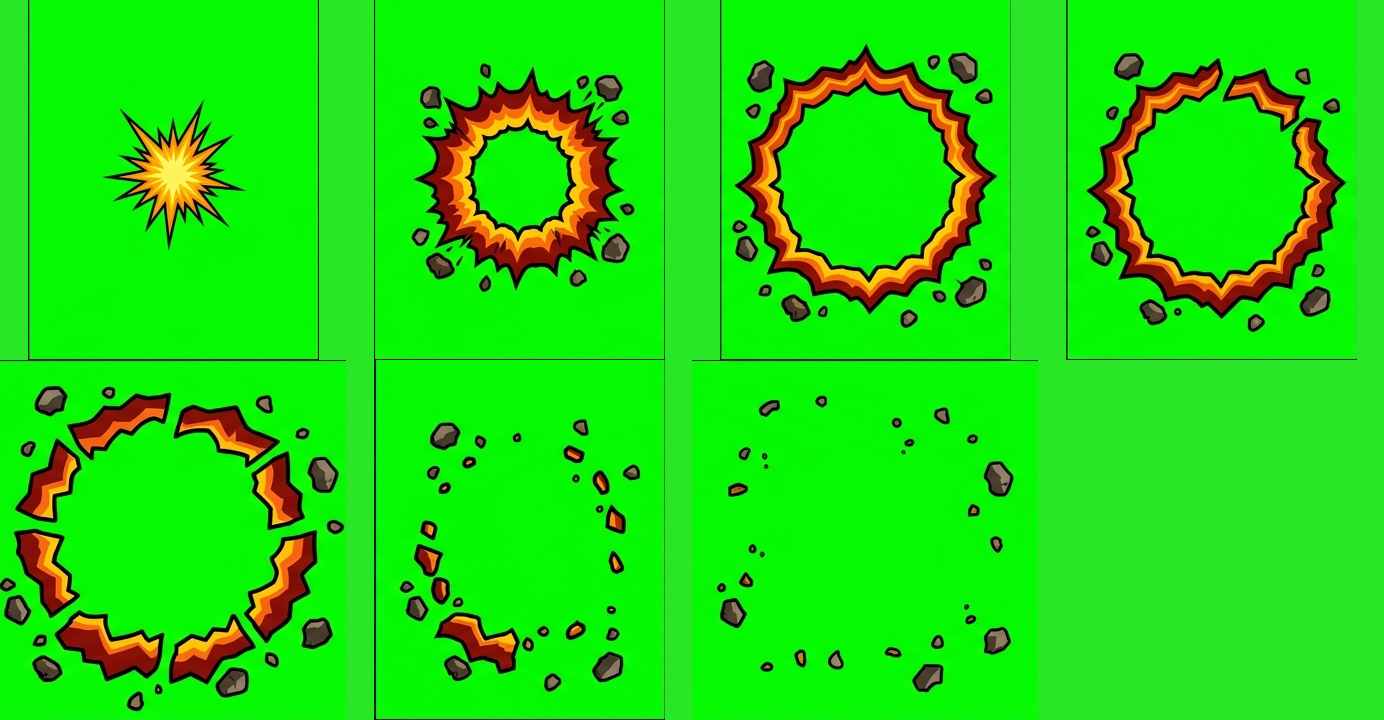
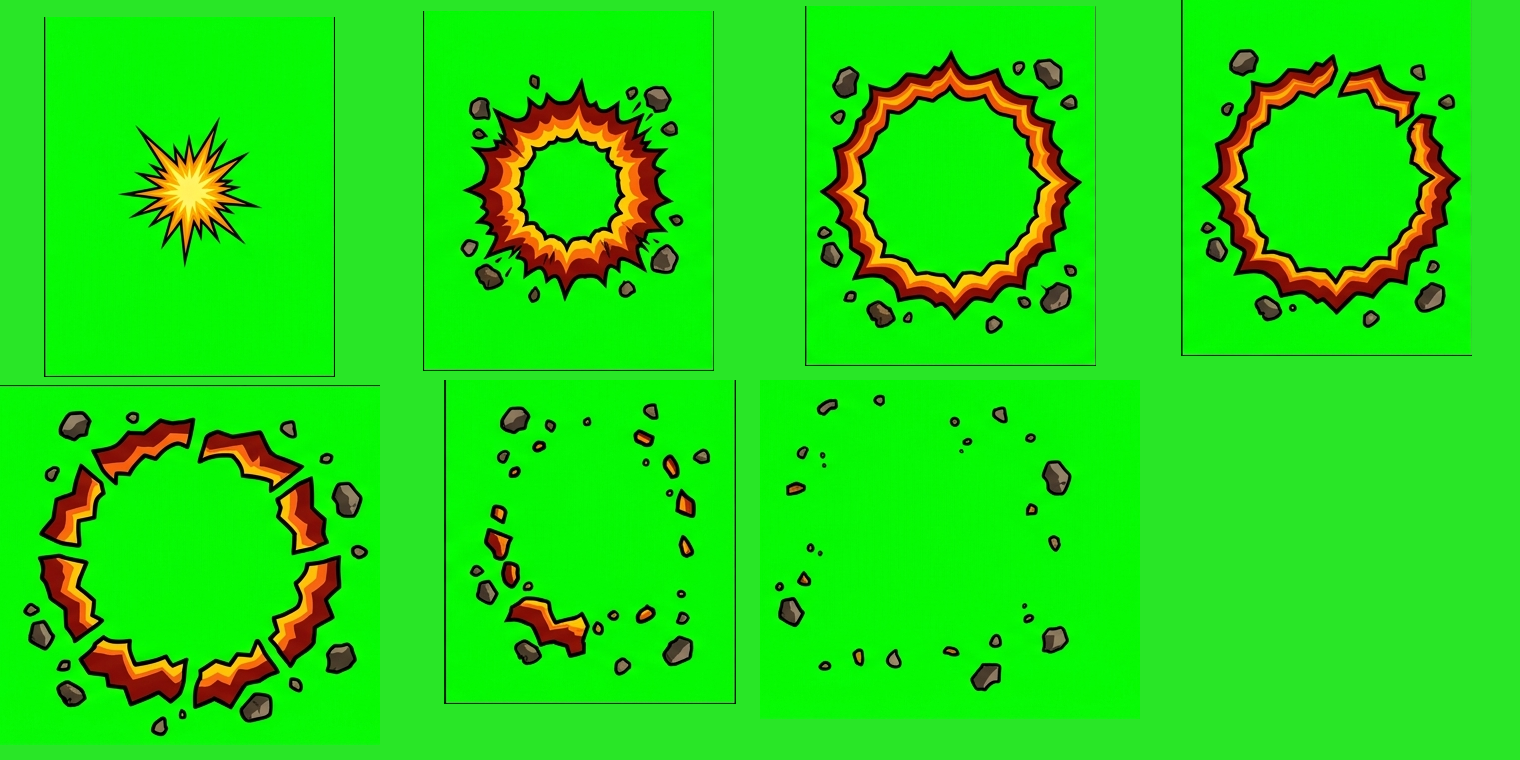
Put every frame of the explosion on the same centre, and say how to see it
The blast wandered as it played, and the cause was what was being taken for the middle of a drawing. Cutting each one on its cell keeps whatever drift the artist drew, and there is plenty: the middles run from y 174 to y 195 down the top row. Cutting on the bounding box is no better where it matters, because the box takes in the rocks thrown clear of the fire and they are not thrown evenly, so on the two frames carrying the most debris it sat eleven pixels one way and ten the other, throwing the picture a fifth of a frame between one frame and the next.

The middle is measured per frame now, by whichever rule that frame can support. Five of them are a ring, and fire is separable from everything else by colour alone: the ramp runs dark red to yellow and is strongly saturated, where the rocks are grey and the outlines are black. So the centroid of the fire is the blast. The last two have no ring left, only embers and falling debris, and there the fire is a handful of pixels nowhere near the middle, so those take the weight of everything drawn instead. Measured afterwards, all seven centres of mass land within a pixel of each other.

regrid-explosion.ps1 is in the tree now, which it was not. That mattered more than it sounds: SOURCES.md said the regridded sheet could be rebuilt from the original when nothing in the repository could rebuild it, and the manifest credited build-sheet.ps1 with centring it does not do.
[…]

diff --git a/docs/render-checks.md b/docs/render-checks.md
@@ -26,6 +26,12 @@ godot --path client --headless --import
 
 Add `-Only 'mole *'` to work on one family of sheets without waiting for the rest. Run the importer with `-Report` first if the source art itself is new. It prints the panorama's horizon fraction and how much of the watermark is left in each patched rectangle, and both of those are numbers the client has hard-coded against the art it was written for.
 
+**The second step is the one that gets skipped, and art that already imported once fails quietly rather than loudly.** A missing texture announces itself with an error line and a grey square. Art that merely *changed* does not: `--path` runs whatever is in `.godot/imported/`, so the game draws the last version that was imported, for as long as it takes somebody to notice. Changing a strip and rerunning the game shows the old strip, with nothing on the console to say so.
+
+That turns nasty when the frame count changes with the artwork, because `Art.cs` is read from source and the texture is not. A strip cut from seven frames into a cached eight-frame texture puts half of one frame beside half of the next, which looks like the animation has been torn in two and swapped rather than like a stale file.
+
+Checking a timestamp will not tell you. Godot leaves a cached texture alone when the content has not changed, so `import-art.ps1` bumps every source's timestamp and every import then looks stale whether it is or not. What answers the question is the `source_md5` in the `.md5` file beside the cached texture, against the source's own hash.
+
 ## Render at 16:9, always
 
 The project is 1280x720 with `stretch/mode="canvas_items"` and `stretch/aspect="expand"`. Expand means the canvas grows in whichever dimension the window has spare, so a 900x600 window (3:2) does not letterbox: it gives the game a 1280x853 canvas. `--write-movie` then captures 1280x720 of it, cropping about 66 pixels off the top and the same off the bottom.

diff --git a/art/SOURCES.md b/art/SOURCES.md
@@ -21,7 +21,7 @@ Record the tool and the month whenever a sheet lands or is replaced. A sheet tha
 
 | Sheet | Built from | Why |
 | --- | --- | --- |
-| `explosion regrid.png` | `explosion.png` | The original is two rows on different pitches, five cells of 291 over three of 485, and its widest drawing does not fit a top-row cell. Nothing can cut all seven frames off it. `build-sheet.ps1` lifts each drawing on its own cell centre, which is the blast origin, and lays them out on one grid of 346 in playing order. |
+| `explosion regrid.png` | `explosion.png` | The original is two rows on different pitches, five cells of 291 over three of 485, and its widest drawing does not fit a top-row cell. Nothing can cut all seven frames off it. `regrid-explosion.ps1` lifts each drawing on its own measured centre, masks it to the cell it came from, and lays the seven out on one grid in playing order. Run that script to rebuild it. |
 
 A regrid is a derived file and carries no new artwork, so it inherits whatever the original's row above says about its tool. The original stays in this folder as the record of what actually arrived, and is what any future regrid starts from.
 
